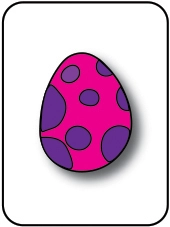
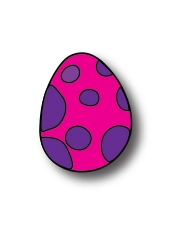
delete card border so it looks like its just eggs,inline style JS deleted changed for CSS styling instead

Changed region(s): [[0.0, 0.0308, 1.0, 1.0], [0.0588, 0.0, 0.9412, 0.0308], [0.2059, 0.5242, 0.2353, 0.5551]]

diff --git a/assets/CSS/style.css b/assets/CSS/style.css
@@ -14,7 +14,8 @@ body {
     font-family: 'Arial', sans-serif;
     background-image: url(../images/background-image.webp);
     background-size: 100%;
-    min-height: 80vh; /* 80% viewport height */
+    background-repeat: no-repeat;
+    min-height: 100vh; /* 80% viewport height */
     display: flex;
     justify-content: center; /* Center content horizontally */
     align-items: center; /* Center content vertically */
@@ -130,6 +131,30 @@ h1 {
     font-size: 3em;
     font-weight: bold;
     color: #667eea; /* Purple color */
+}
+
+/* ============================================
+   CARD IMAGES
+   ============================================ */
+
+/* Card container */
+.card-container {
+    display: flex;
+    justify-content: center;
+    align-items: center;
+}
+
+/* Card image styling */
+.card-image {
+    width: 180px;      /* Change this value to make bigger/smaller */
+    height: 225px;     /* Change this value to make bigger/smaller */
+    object-fit: contain; /* Keeps image proportions */
+    transition: transform 0.3s; /* Smooth animation */
+}
+
+/* Optional: Cards grow slightly on hover */
+.card-image:hover {
+    transform: scale(1.05); /* Makes cards 5% bigger on hover */
 }
 
 

diff --git a/assets/js/script.js b/assets/js/script.js
@@ -63,22 +63,15 @@ const cardImages = [
  * @returns {HTMLElement} - Container with the card image
  */
 function createCardDisplay(num) {
-    // Create a container div for the card
     const container = document.createElement('div');
-    container.style.display = 'flex';
-    container.style.justifyContent = 'center';
-    container.style.alignItems = 'center';
+    container.className = 'card-container';  // Add class
     
-    // Create an image element for the card
     const card = document.createElement('img');
-    card.src = cardImages[num - 1];  // Get correct image (subtract 1 because arrays start at 0)
+    card.src = cardImages[num - 1];
     card.alt = `card with ${num} eggs`;
     card.className = 'card-image';
-    card.style.width = '120px';
-    card.style.height = '150px';
-    card.style.objectFit = 'contain';  // Keep image proportions
+    // Remove all inline styles
     
-    // Add the card to the container
     container.appendChild(card);
     
     return container;
